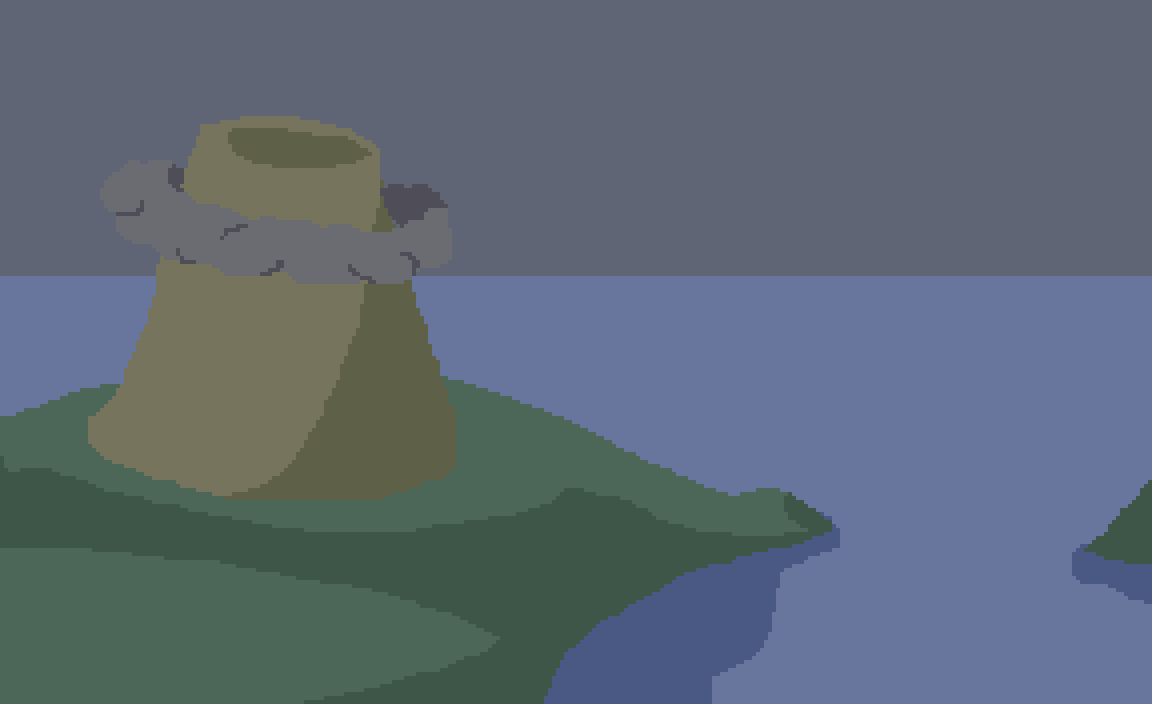
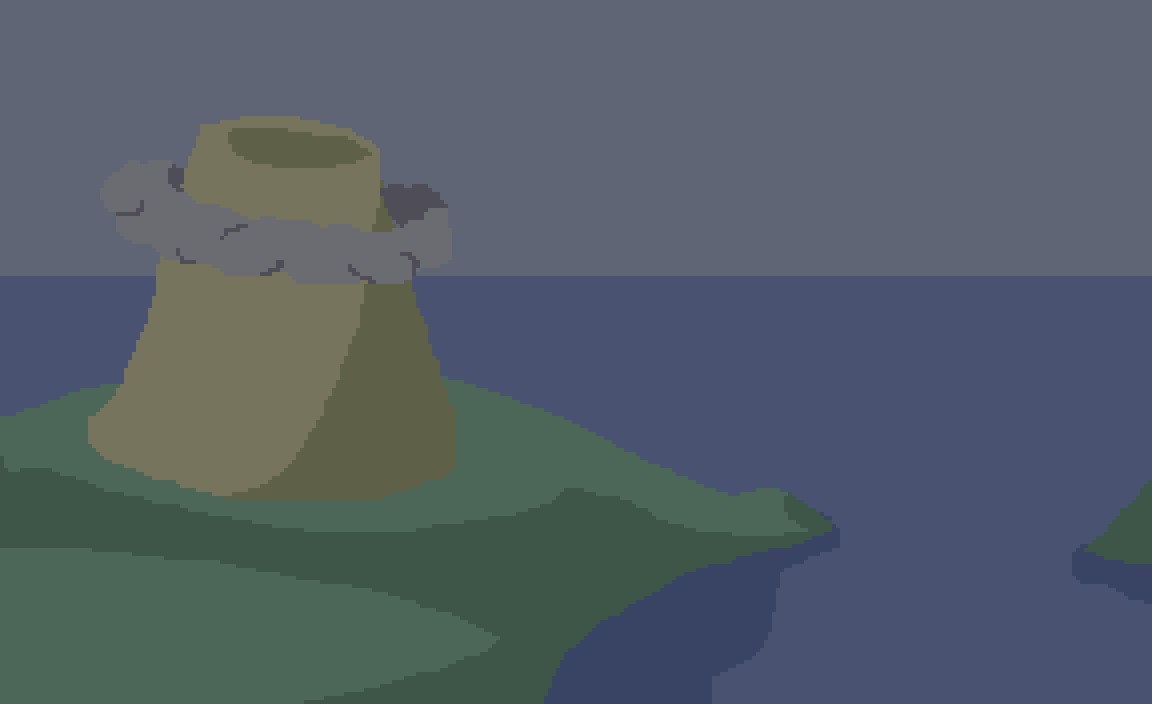
Regular Updates

diff --git a/game/stage/OurResort.java b/game/stage/OurResort.java
@@ -1,5 +1,9 @@
 package game.stage;
 
+import java.awt.Graphics;
+import java.awt.Color;
+import java.awt.image.ImageObserver;
+
 import java.util.ArrayList;
 import game.physics.Ledge;
 import game.particle.AgedParticle;
@@ -10,6 +14,7 @@ public class OurResort extends Stage {
     private boolean stormyMode;
     private Platform redRing;
     private Platform whiteRing;
+    int flashTime;
 
     public OurResort() {
         stormyMode = false;
@@ -26,10 +31,12 @@ public class OurResort extends Stage {
         stageObjects.add(new DrawnObject(576 - 128, 512, 256, 704, "our_sports_platform_supports_solo.png"));
         redRing = new Platform(576 - 128, 512, 256, 24, false, "our_sports_platform.png");
         platforms.add(redRing);
+        flashTime = 0;
     }
 
     @Override
     public void postUpdate() {
+        flashTime--;
         if (backgroundImage.equals("our_sports_resort_background.png")
                 && (battleScreen.getPlayers(0).lives == 1 || battleScreen.getPlayers(1).lives == 1)) {
             backgroundImage = "our_sports_resort_background_stormy.png";
@@ -37,6 +44,7 @@ public class OurResort extends Stage {
             platforms.add(0, whiteRing);
             platforms.add(0, new Platform(576 - 132 / 2, 512, 132, 24, false, "our_sports_platform_blue_ring.png"));
             stormyMode = true;
+            flashTime = 30;
         }
         if (stormyMode) {
             if (redRing.hitbox.y < 1000) {
@@ -50,6 +58,14 @@ public class OurResort extends Stage {
 
             battleScreen.addParticle(
                     new AgedParticle(1500 * Math.random() - (1500 - 1152), 32, 16, 16, 1, 8, 8, "rain.png", 100));
+        }
+    }
+
+    @Override
+    public void preRenderUI(Graphics g, ImageObserver target) {
+        if (flashTime > 0) {
+            g.setColor(new Color(255, 255, 255, (int) (255 * (flashTime / 30.0))));
+            g.fillRect(0, 0, 1152, 704);
         }
     }
 }

diff --git a/game/screen/BattleScreen.java b/game/screen/BattleScreen.java
@@ -430,6 +430,9 @@ public class BattleScreen implements Screen {
         for (Particle particle : particles) {
             particle.render(g, this, target);
         }
+
+        stage.preRenderUI(g, target);
+
         if (players.size() > 1) {
             if (players.get(0) != null)
                 drawText(new Vector(576 - 128 - 24, 640), 20, players.get(0).damage + "%", new Color(255, 255, 255), g,

diff --git a/game/stage/Stage.java b/game/stage/Stage.java
@@ -215,6 +215,9 @@ public class Stage implements Serializable {
       return name;
    }
 
+   public void preRenderUI(Graphics g, ImageObserver target) {
+   }
+
    public Stage copy() {
       try {
          return (Stage) this.getClass().getConstructors()[0].newInstance((Object[]) null);
